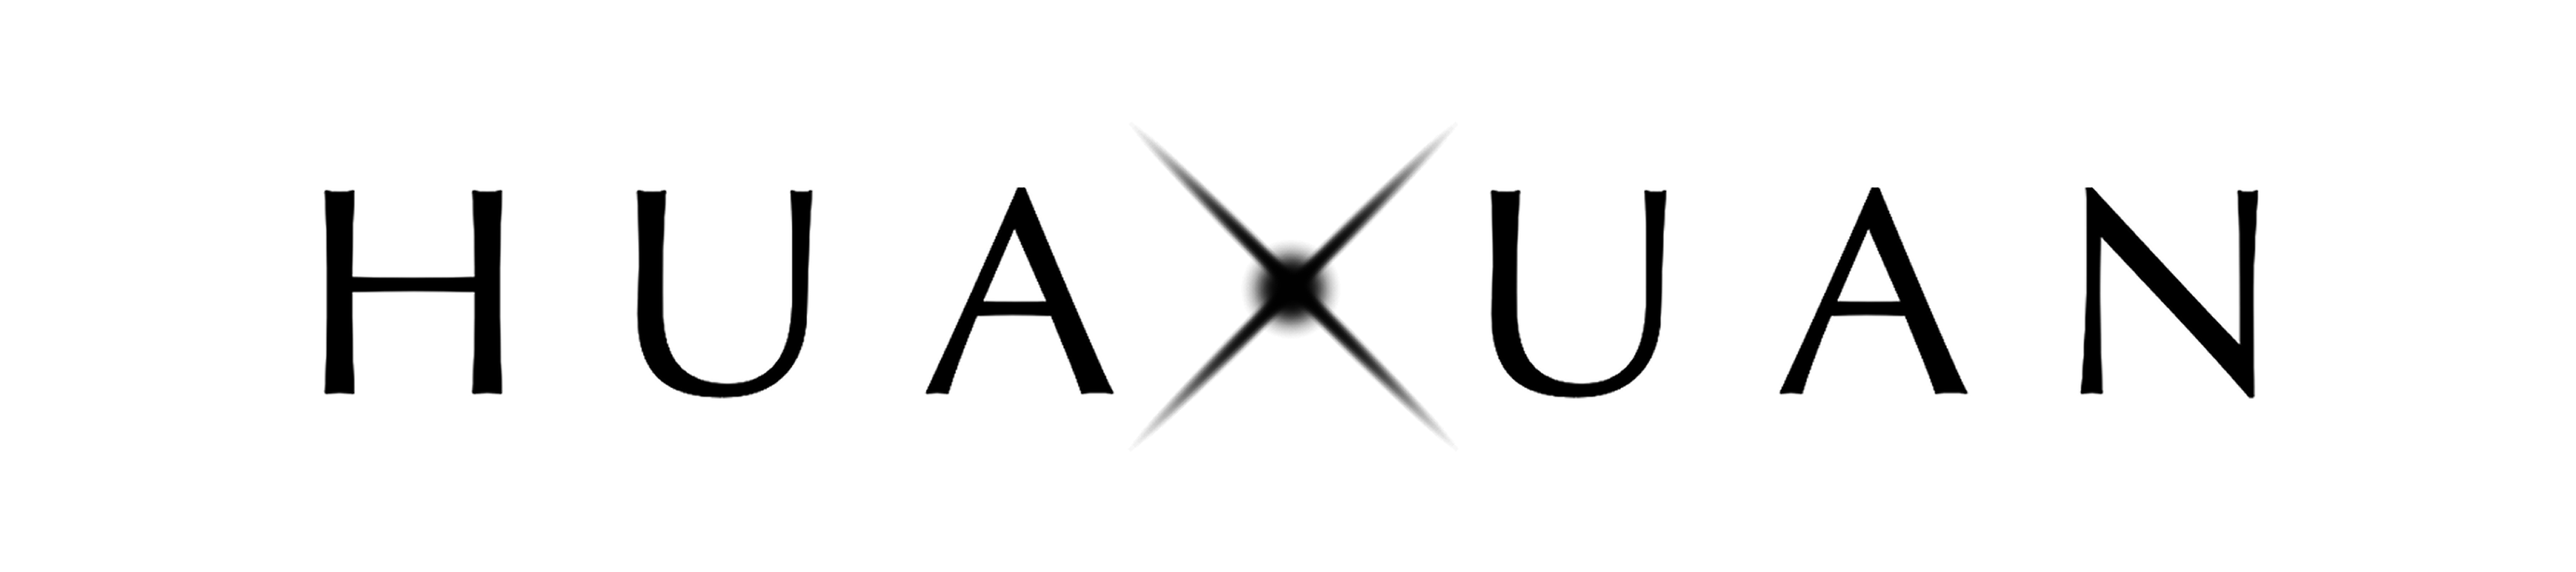
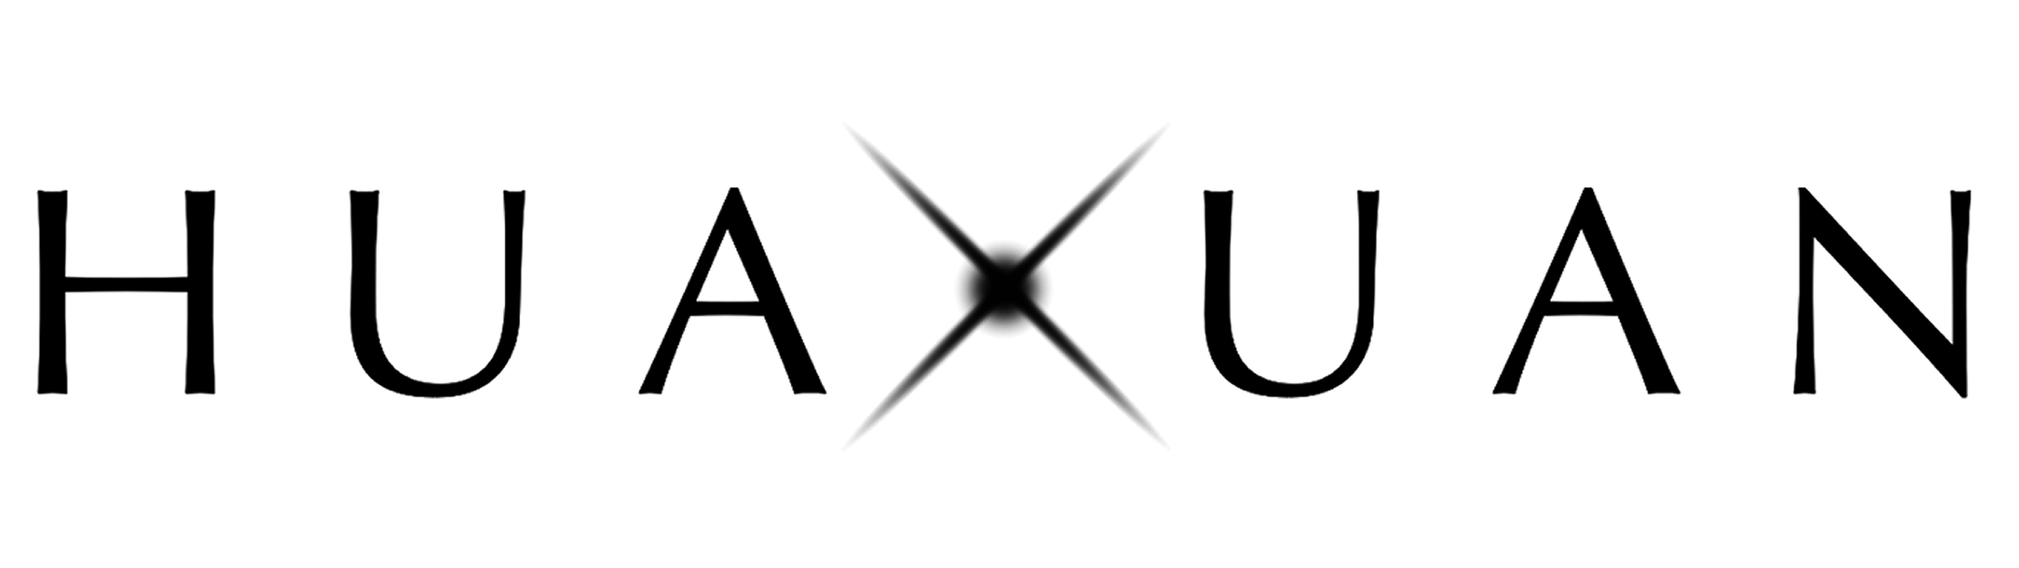
update font and navbar styling

Changed region(s): [[0.0, 0.2417, 0.998, 0.7554]]

diff --git a/client/components/Footer.js b/client/components/Footer.js
@@ -11,19 +11,12 @@ const Footer = () => {
       <footer className="footer space">
       <Navbar bg="navbar navbar-light bg-light" expand="lg">
       <Container>
-          <Container className="justify-content-left">
+          <Container className="nav-containter">
             <Navbar.Brand href="/">
-              <img
+            <img
                 alt=""
-                src="/img/huaxuanimg/logotemp.png"
-                width="60"
-                height="60"
-                className="d-inline-block align-top"
-              />
-              <img
-                alt=""
-                src="/img/huaxuanimg/huaxuan.png"
-                width="220"
+                src="/img/huaxuanimg/HuaXuanTitleB.png"
+                width=""
                 height="60"
                 className="d-inline-block align-top"
               />
@@ -58,9 +51,9 @@ const Footer = () => {
             <img
               alt=""
               src="/img/insta-black.svg"
-              width="60"
-              height="60"
-              className="d-inline-block align-top"
+              width="40"
+              height="40"
+              className="insta"
             />
           </a>
       </Container>

diff --git a/public/style.css b/public/style.css
@@ -1,7 +1,11 @@
-body {
-  font-family: sans-serif;
-  background-color: white;
+@font-face {
+  font-family: 'maitree';
+  src: url("/fonts/Maitree-Light.ttf") format("truetype");
+}
 
+body {
+  font-family: maitree;
+  background-color: white;
 }
 
 ul {
@@ -10,6 +14,18 @@ ul {
 
 p {
   background-color: white;
+}
+
+.navbar-link {
+  font-family: maitree;
+  font-size: larger;
+  font-weight: bold;
+}
+
+.nav-link {
+  font-family: maitree;
+  font-size: larger;
+  font-weight: bold;
 }
 
 header {
@@ -46,6 +62,10 @@ button:hover {
   border-left: 3em;
   border-right: 3em;
   border-radius: 1em 1em 1em 1em;
+}
+
+.nav-container {
+  padding: 0 !important;
 }
 
 label {
@@ -164,6 +184,8 @@ col {
   display: flex;
   justify-content: center;
   align-items: center;
+  margin-left: .5em;
+  margin-right: .5em;
 }
 
 .shop-banner {
@@ -173,6 +195,8 @@ col {
   display: flex;
   align-items: center;
   justify-content: center;
+  margin-left: .5em;
+  margin-right: .5em;
 }
 
 .shop-banner::before {    
@@ -209,6 +233,11 @@ col {
 
 .s-space {
   padding-top: 3em;
+}
+
+.insta {
+  padding-left: 1em;
+  margin-right: 1em;
 }
 
 .homepage {

diff --git a/client/components/Navbar.js b/client/components/Navbar.js
@@ -38,7 +38,7 @@ const NavbarComp = ({ handleClick, isLoggedIn, cart, products, isAdmin }) => {
   return (
     <Navbar bg="navbar navbar-light bg-light" expand="lg">
       <Container>
-          <Container className="justify-content-left">
+          <Container className="nav-containter">
             <Navbar.Brand href="/">
               {/* <img
                 alt=""
@@ -50,7 +50,7 @@ const NavbarComp = ({ handleClick, isLoggedIn, cart, products, isAdmin }) => {
               <img
                 alt=""
                 src="/img/huaxuanimg/HuaXuanTitleB.png"
-                width="260"
+                width=""
                 height="60"
                 className="d-inline-block align-top"
               />
@@ -107,7 +107,7 @@ const NavbarComp = ({ handleClick, isLoggedIn, cart, products, isAdmin }) => {
               src="/img/insta-black.svg"
               width="40"
               height="40"
-              className="d-inline-block align-top"
+              className="insta"
             />
           </a>
       </Container>
